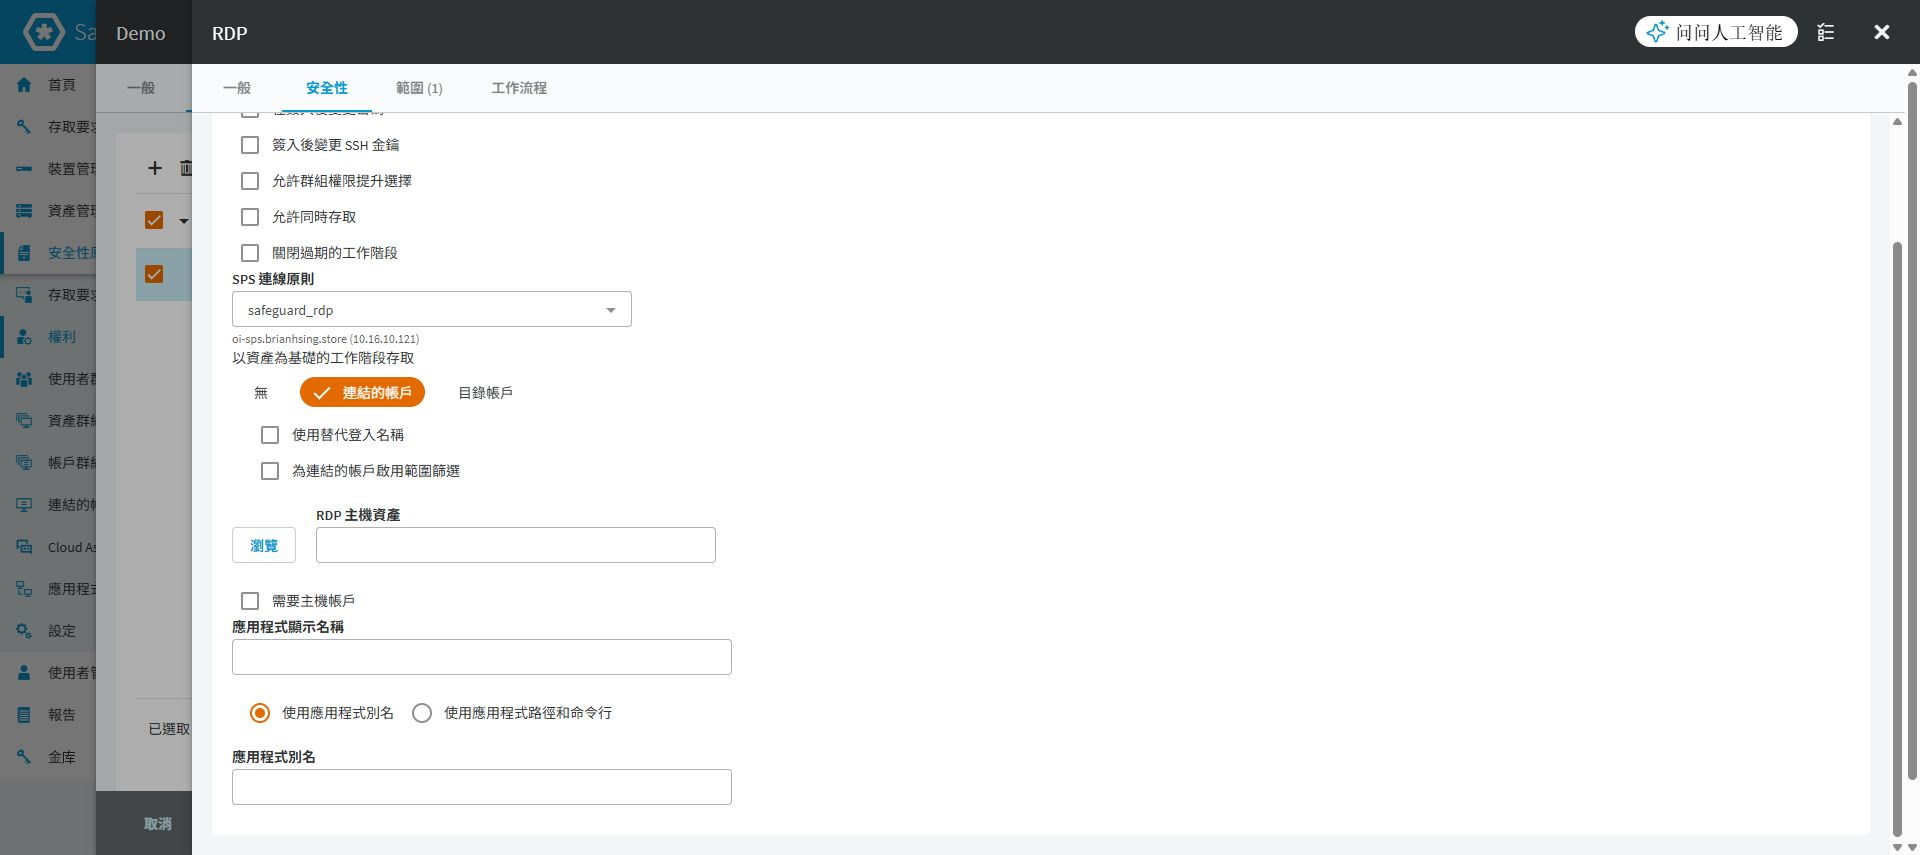
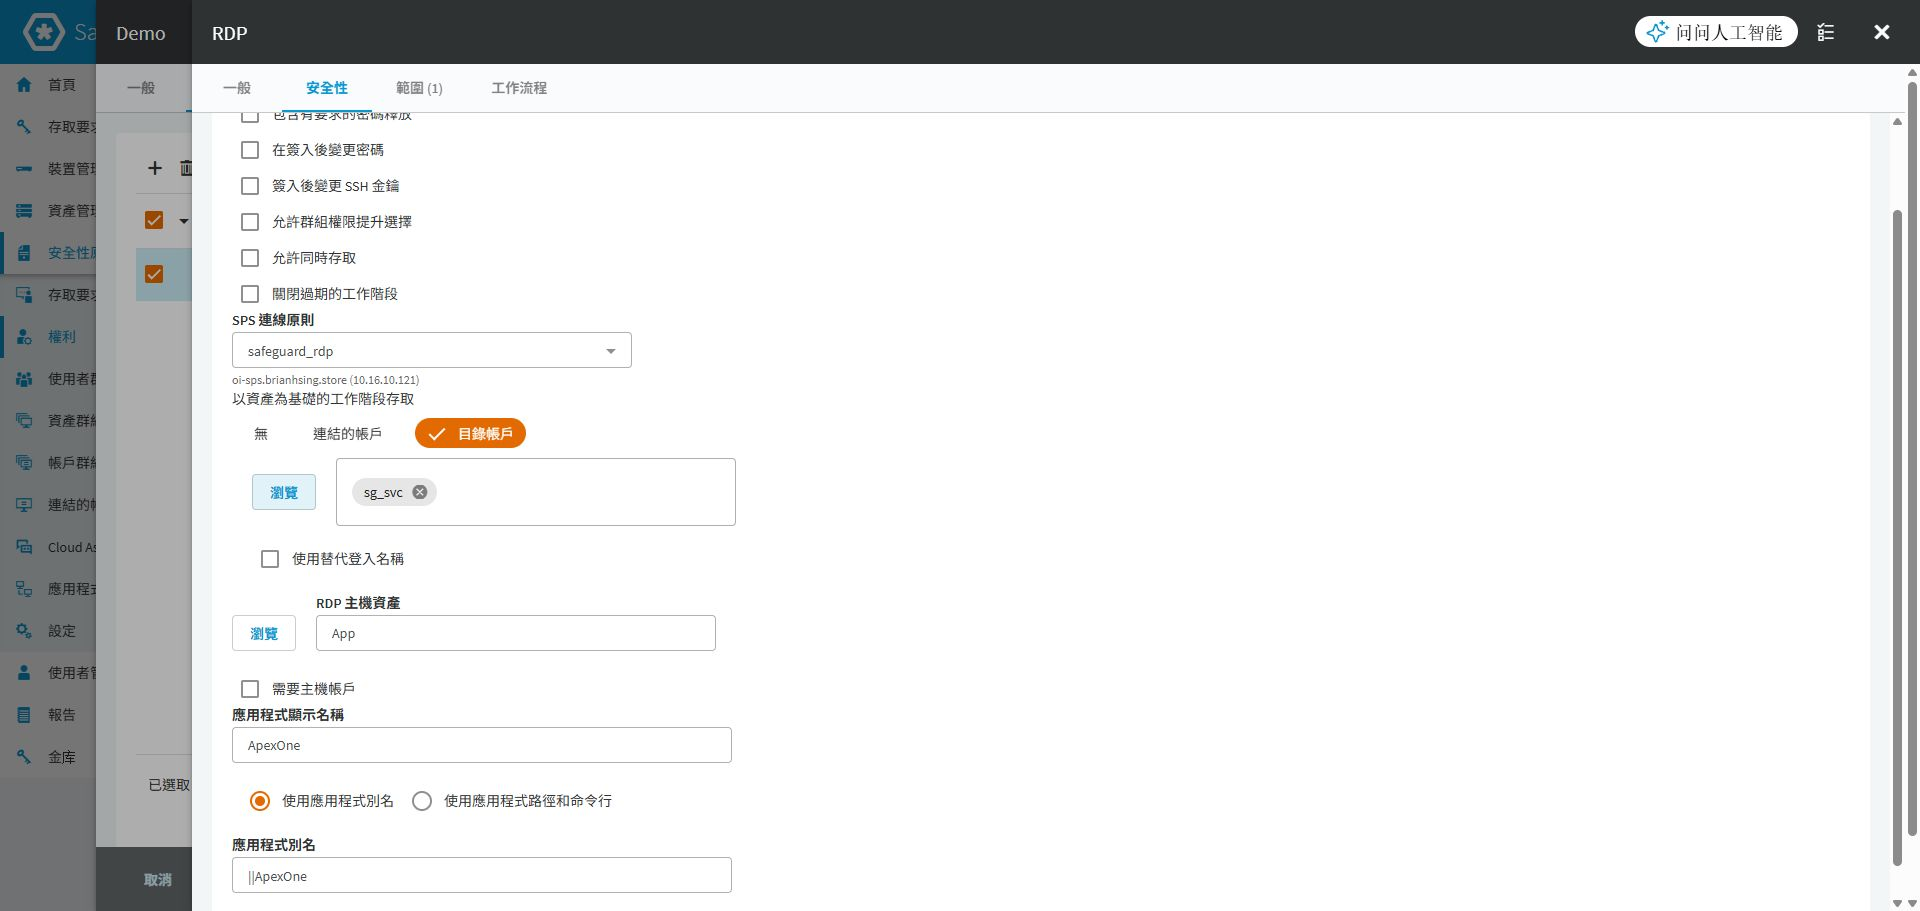
docs: 更新 RemoteApp 目錄帳戶實填截圖與操作說明

diff --git a/docs/sop/environment-evidence.md b/docs/sop/environment-evidence.md
@@ -33,7 +33,7 @@
 | [SPS 備份封存](sps-backup-archive.md) | 系統備份、封存門檻與連線指派 | 目的地檔案、封存、回放與還原 |
 | [清理](sps-audit-cleanup.md) | 原則清單及保留分布 | 任何刪除作業 |
 | [內容原則](sps-content-policy.md) | 事件、動作與 Drawing 通道 | 實際通知、中止與負向測試 |
-| [RemoteApp](remoteapp-integration.md) | SPP 類型／主機／別名未儲存表單、SPS Drawing 與 rail 通道新圖；另引用使用者提供的 Publisher 與模組圖 | RDS／Launcher 安裝、授權與程式啟動 |
+| [RemoteApp](remoteapp-integration.md) | SPP 已填入目錄帳戶 sg_svc／主機 App／ApexOne 別名的未儲存表單、SPS Drawing 與 rail 通道新圖；另引用使用者提供的 Publisher 與模組圖 | RDS／Launcher 安裝、授權與程式啟動 |
 | [SCALUS](scalus-install.md) | 本機協定總覽、RDP 執行路徑與範本、PuTTY 設定，共 4 張截圖 | 重新安裝、Windows 協定關聯與 RDP／SSH 啟動驗收 |
 | [Desktop Player](desktop-player-install.md) | 尚無本機安裝截圖 | 安裝與播放 |
 
